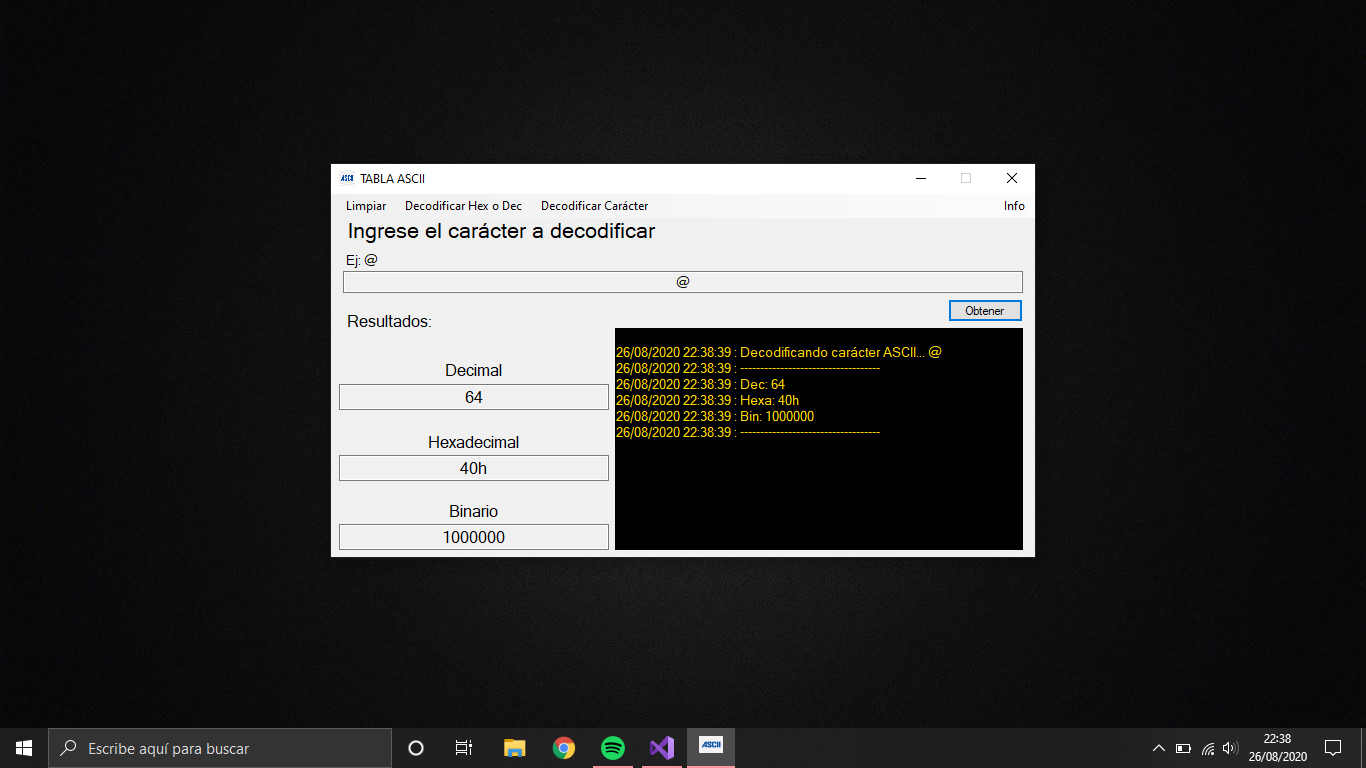
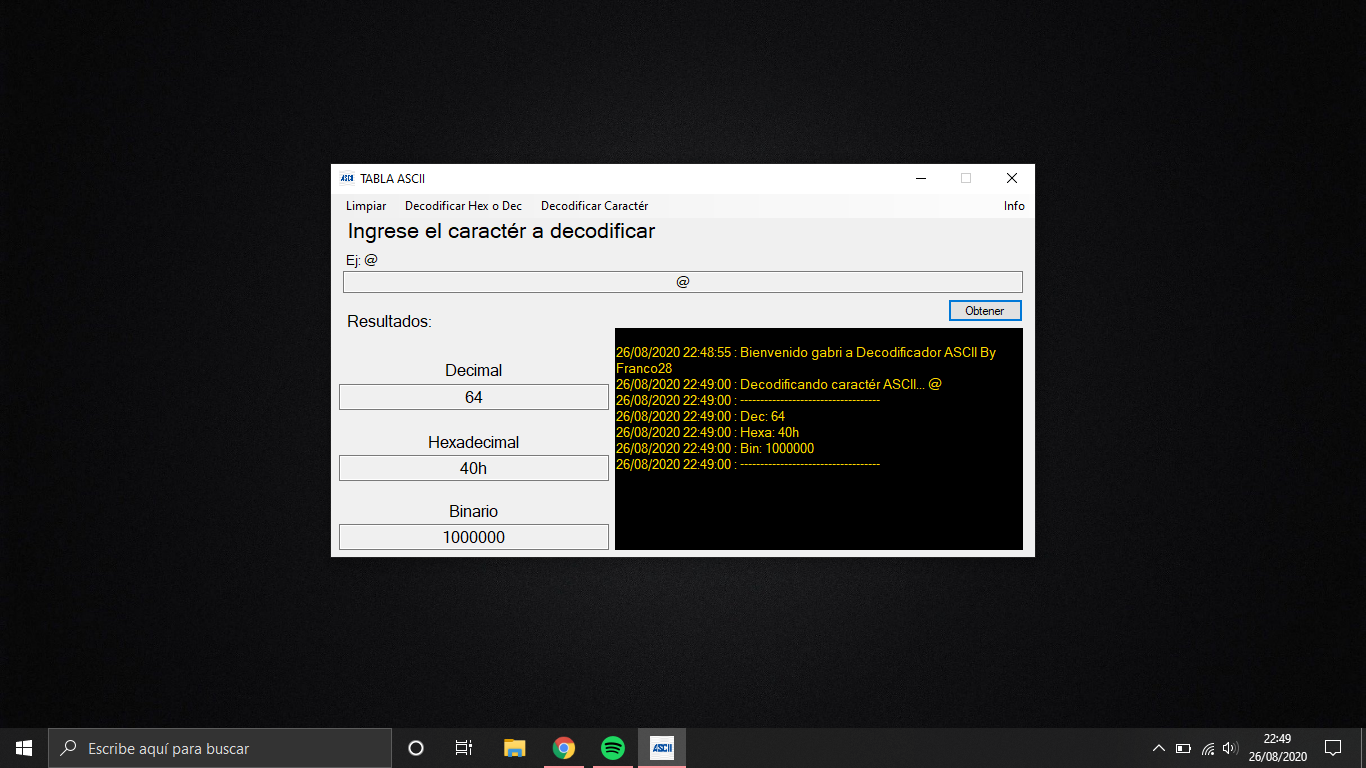
fixed strings

Changed region(s): [[0.4305, 0.4375, 0.7379, 0.625], [0.4612, 0.9375, 0.5534, 1.0]]

diff --git a/Main_Form.cs b/Main_Form.cs
@@ -1,7 +1,6 @@
 
 using System;
 using System.Drawing;
-using System.Linq;
 using System.Text;
 using System.Threading.Tasks;
 using System.Windows.Forms;
@@ -31,12 +30,12 @@ namespace asciiApp
             string s = textBoxDecodificador.Text;
             if (s.Equals(""))
             {
-                cAppend("Ingrese algún carácter");
-                MessageBox.Show("Ingrese algún carácter", @"DECOFICADOR ASCII", MessageBoxButtons.OK, MessageBoxIcon.Information);
+                cAppend("Ingrese algún caractér");
+                MessageBox.Show("Ingrese algún caractér", @"DECOFICADOR ASCII", MessageBoxButtons.OK, MessageBoxIcon.Information);
             }
             else
             {
-                cAppend("Decodificando carácter ASCII... " + s);
+                cAppend("Decodificando caractér ASCII... " + s);
                 await Task.Run(() =>
                 {
                     foreach (char c in s)
@@ -65,7 +64,7 @@ namespace asciiApp
             {
                 string hs = hexString.Substring(i, 2);
                 sb.Append(Convert.ToString(Convert.ToChar(Int32.Parse(hs, System.Globalization.NumberStyles.HexNumber))));
-                cAppend("Caráter: " + sb.ToString());
+                cAppend("Caractér: " + sb.ToString());
                 labelResuDecimal.Text = sb.ToString();
             }
             return sb.ToString();
@@ -110,7 +109,7 @@ namespace asciiApp
                         {
                             cAppend("-----------------------------------");
                             char c = Convert.ToChar(value);
-                            cAppend("Caráter: " + c.ToString());
+                            cAppend("Caractér: " + c.ToString());
                             labelResuDecimal.Text = c.ToString();
                             string binary = Convert.ToString(c, 2);
                             cAppend("Bin: " + binary);
@@ -135,8 +134,8 @@ namespace asciiApp
             textBoxDecodificador.Text = "";
 
             labelEj.Text = "Ej: ACh o 240";
-            labelTitulo.Text = "Ingrese el número Decimal o Hexadecimal a decodificar a carácter";
-            labelDecimal.Text = "Carácter";
+            labelTitulo.Text = "Ingrese el número Decimal o Hexadecimal a decodificar a caractér";
+            labelDecimal.Text = "Caractér";
             labelResuDecimal.Text = "...";
             labelHexadecimal.Hide();
             labelResuHexadecimal.Hide();
@@ -156,7 +155,7 @@ namespace asciiApp
             textBoxDecodificador.Text = "";
 
             labelEj.Text = "Ej: @";
-            labelTitulo.Text = "Ingrese el carácter a decodificar";
+            labelTitulo.Text = "Ingrese el caractér a decodificar";
             labelDecimal.Text = "Decimal";
             labelResuDecimal.Text = "...";
             labelHexadecimal.Show();

diff --git a/Main_Form.Designer.cs b/Main_Form.Designer.cs
@@ -69,7 +69,7 @@
             this.labelTitulo.Name = "labelTitulo";
             this.labelTitulo.Size = new System.Drawing.Size(319, 25);
             this.labelTitulo.TabIndex = 1;
-            this.labelTitulo.Text = "Ingrese el carácter a decodificar";
+            this.labelTitulo.Text = "Ingrese el caractér a decodificar";
             // 
             // textBoxDecodificador
             // 
@@ -144,7 +144,7 @@
             // 
             this.decodificarCaracterToolStripMenuItem.Name = "decodificarCaracterToolStripMenuItem";
             this.decodificarCaracterToolStripMenuItem.Size = new System.Drawing.Size(126, 20);
-            this.decodificarCaracterToolStripMenuItem.Text = "Decodificar Carácter";
+            this.decodificarCaracterToolStripMenuItem.Text = "Decodificar Caractér";
             this.decodificarCaracterToolStripMenuItem.Click += new System.EventHandler(this.decodificarCaracterToolStripMenuItem_Click);
             // 
             // infoToolStripMenuItem
